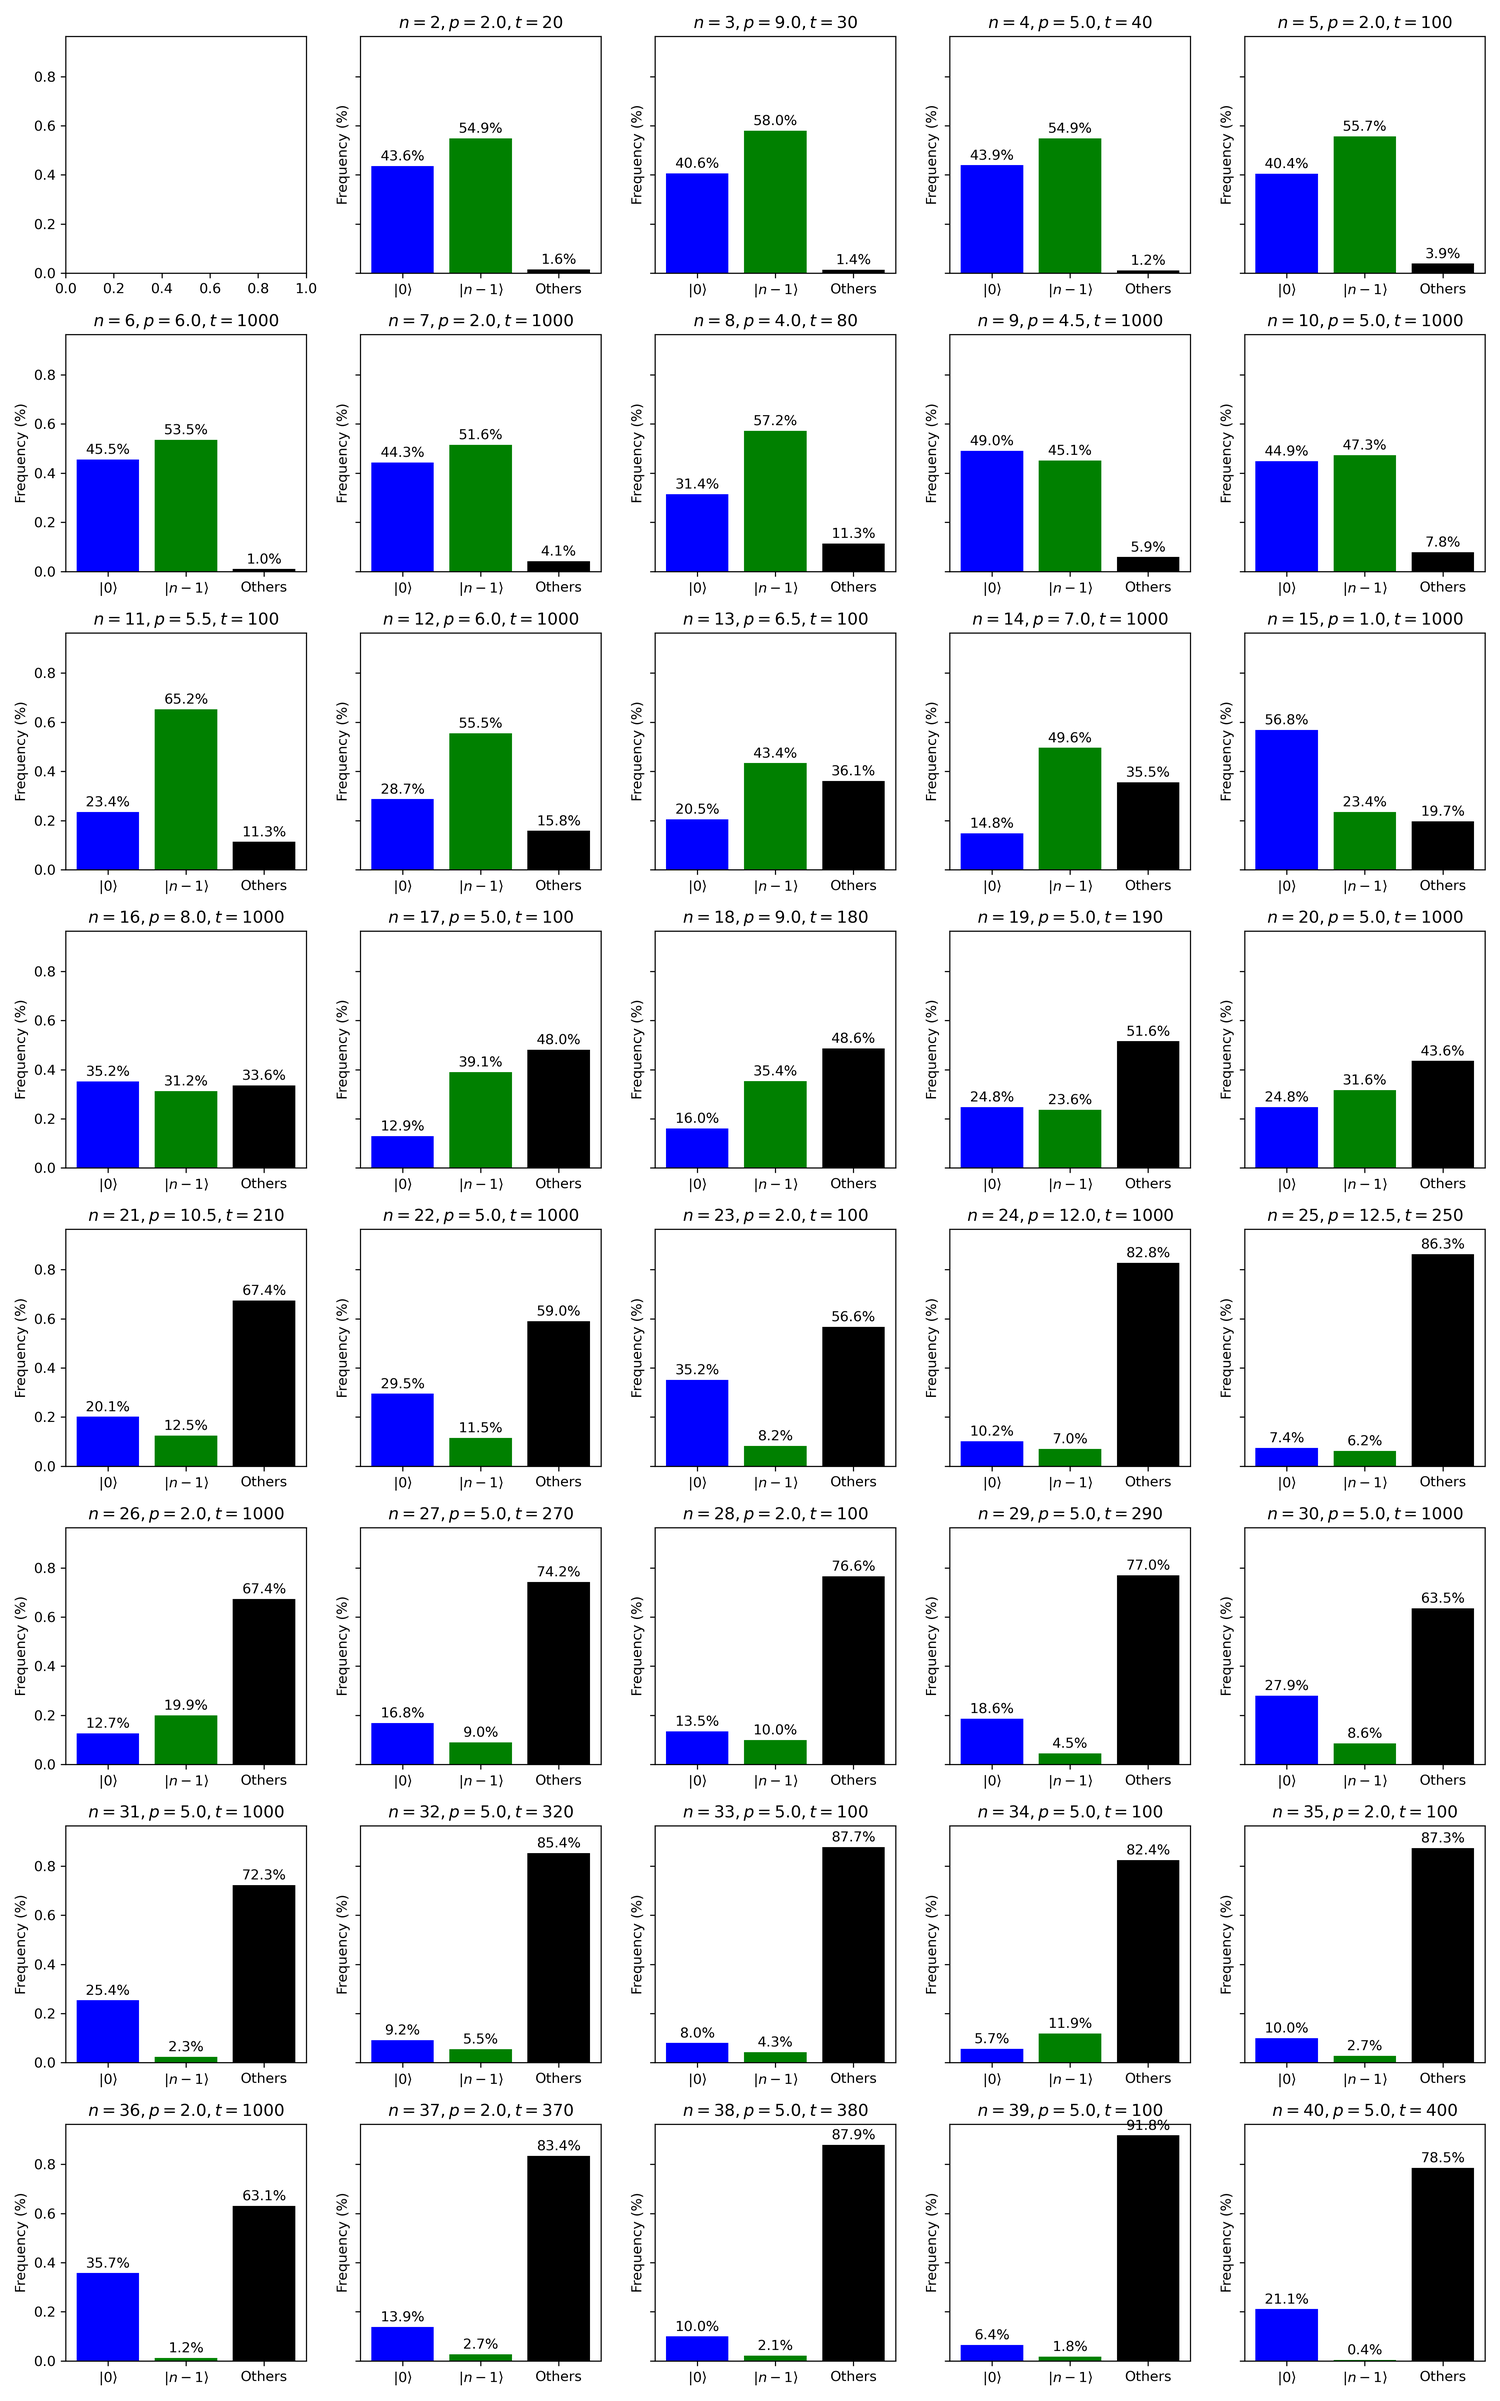
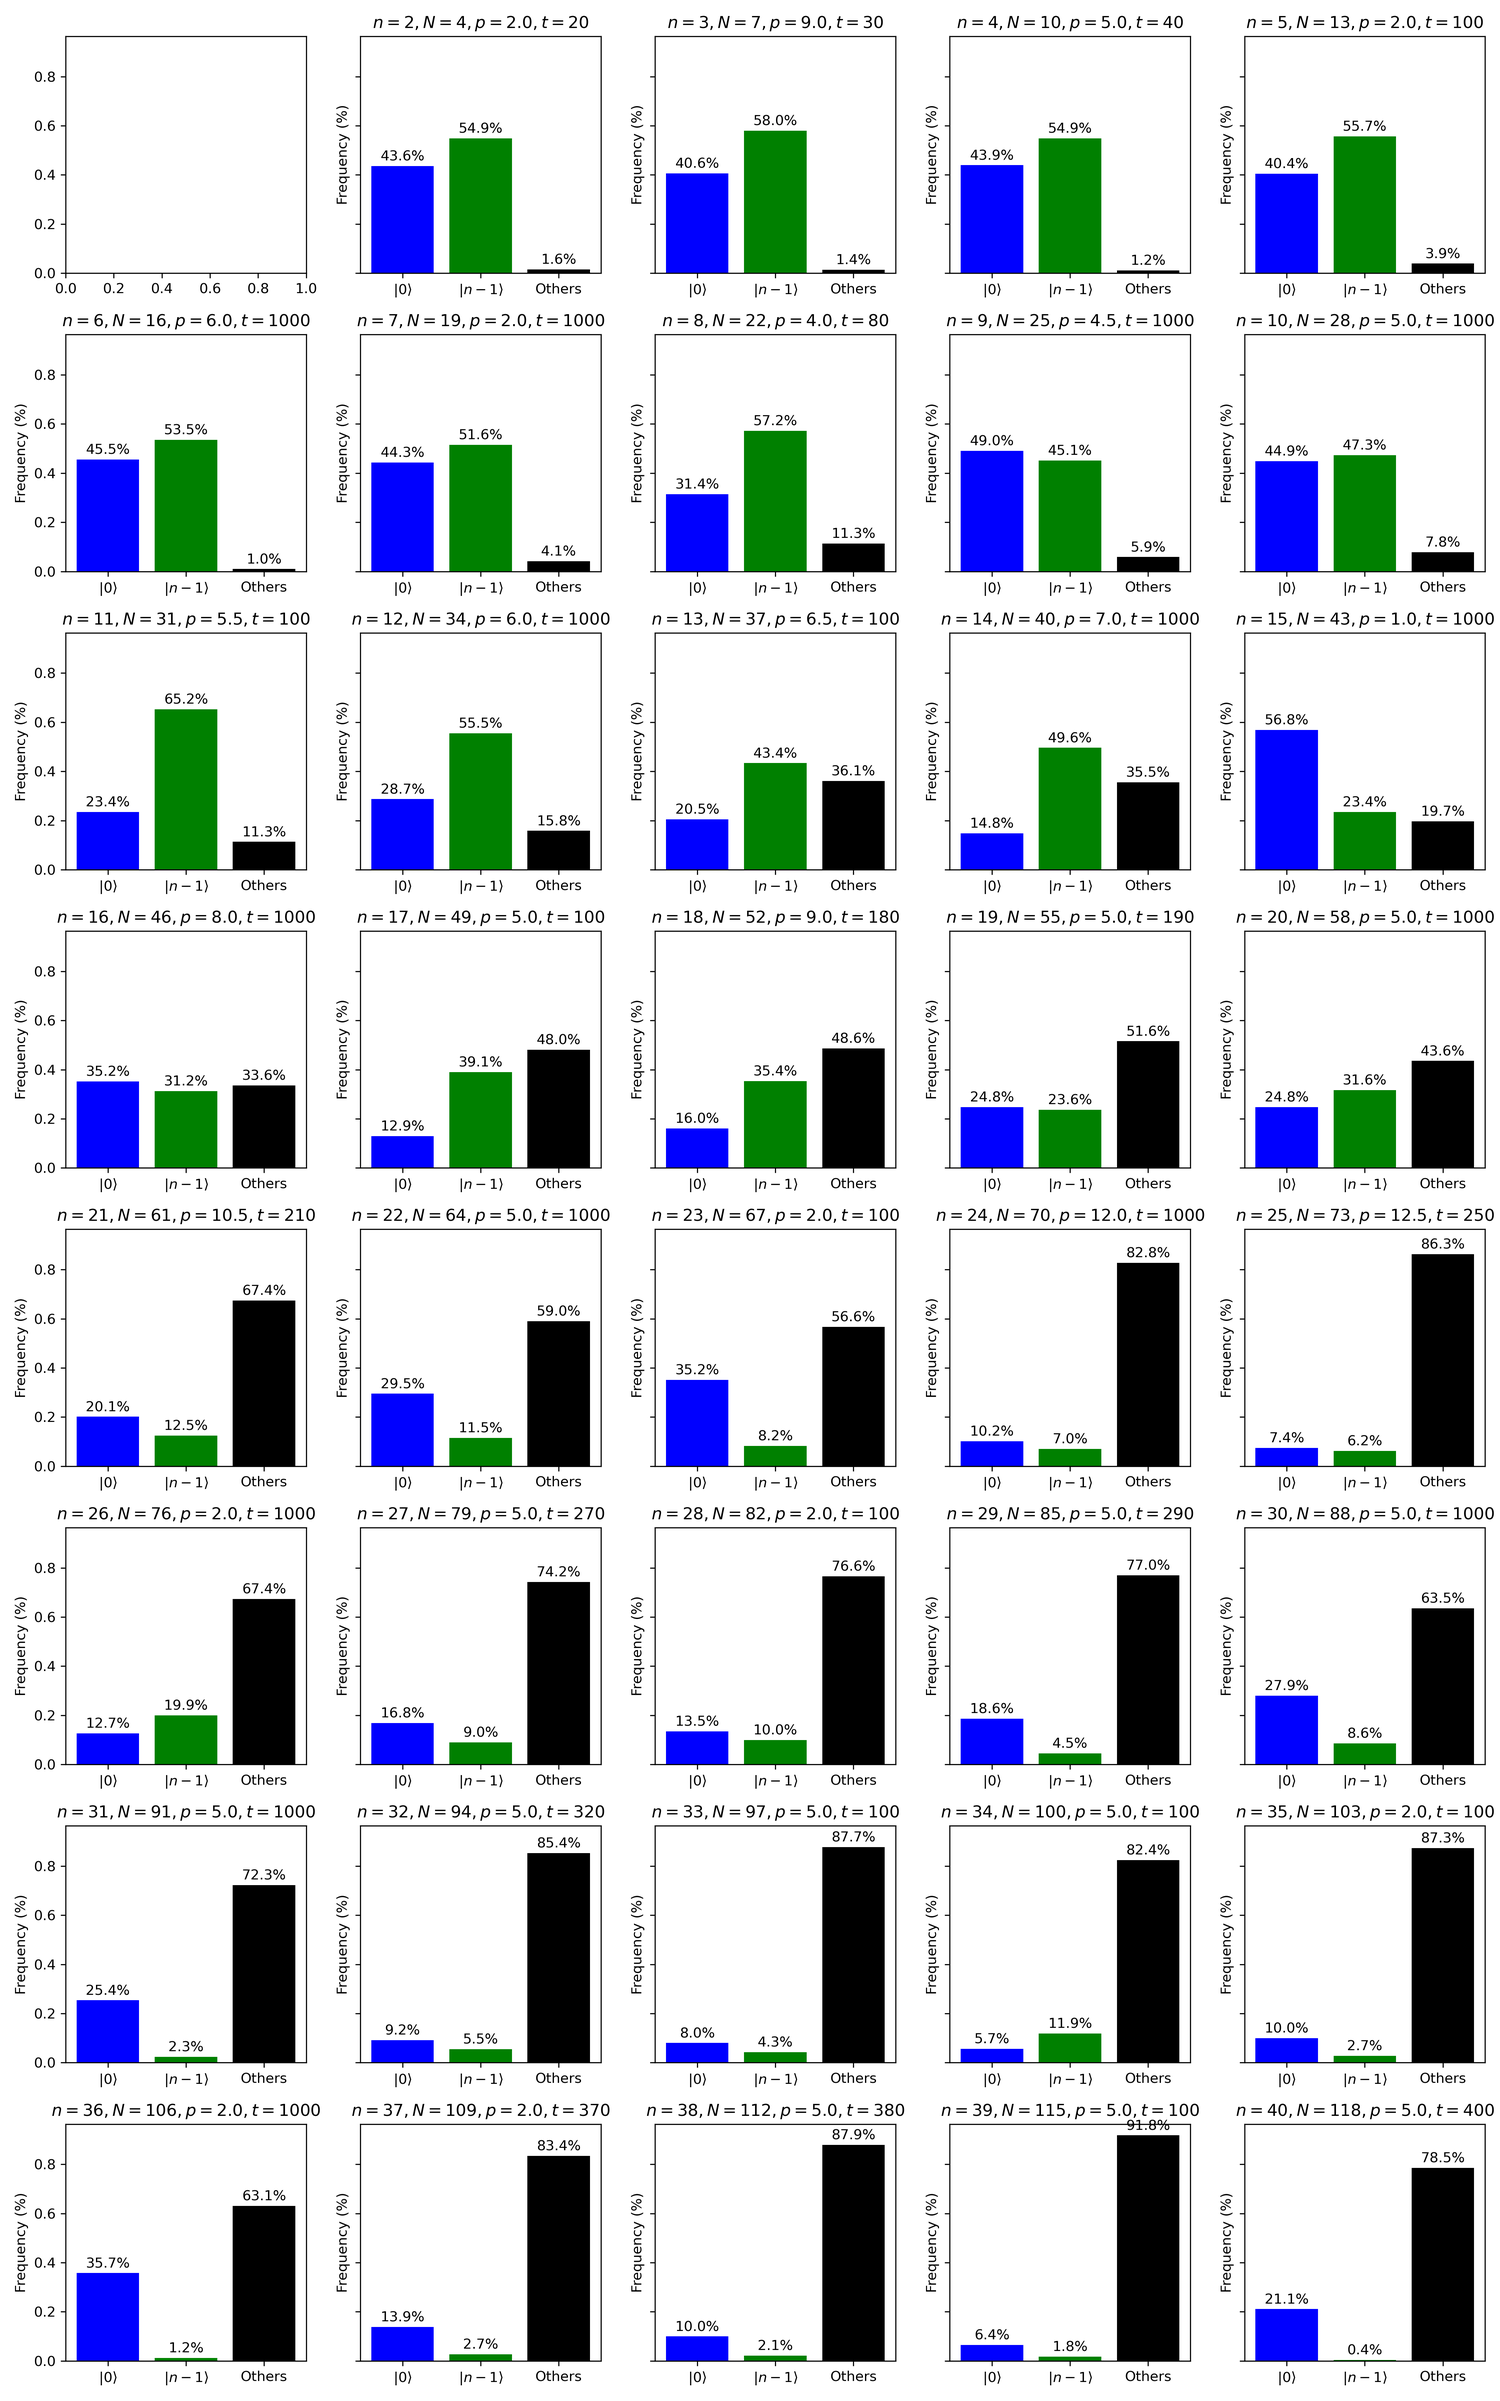
Updated figures to include total number of qubits used.

diff --git a/src/dataProcessing.py b/src/dataProcessing.py
@@ -48,7 +48,7 @@ def plotFigure(dictionary, filename):
                 ha='center',
                 va='bottom'
             )
-        ax.set_title(f'$n = {n}, p = {penalty}, t = {time}$')
+        ax.set_title(f'$n = {n}, N = {n + 2*(n-1)}, p = {penalty}, t = {time}$')
         ax.set_ylabel('Frequency (%)')
     plt.savefig(f'../{filename}.png', dpi=DPI)
     plt.close()
@@ -64,7 +64,10 @@ for n in range(START, END):
     optimalOnes[n] = {'zeros': 0, 'ones': 0, 'others': 0, 'penalty': 0, 'time':0}
 
 for filename in os.listdir('../data/'):
-    device, size, penalty, time, protocol = filename.split('-')
+    try:
+        device, size, penalty, time, protocol = filename.split('-')
+    except:
+        continue
     n = int(size)
     if device == 'zephyer':
         with open(f'../data/{filename}') as file:
